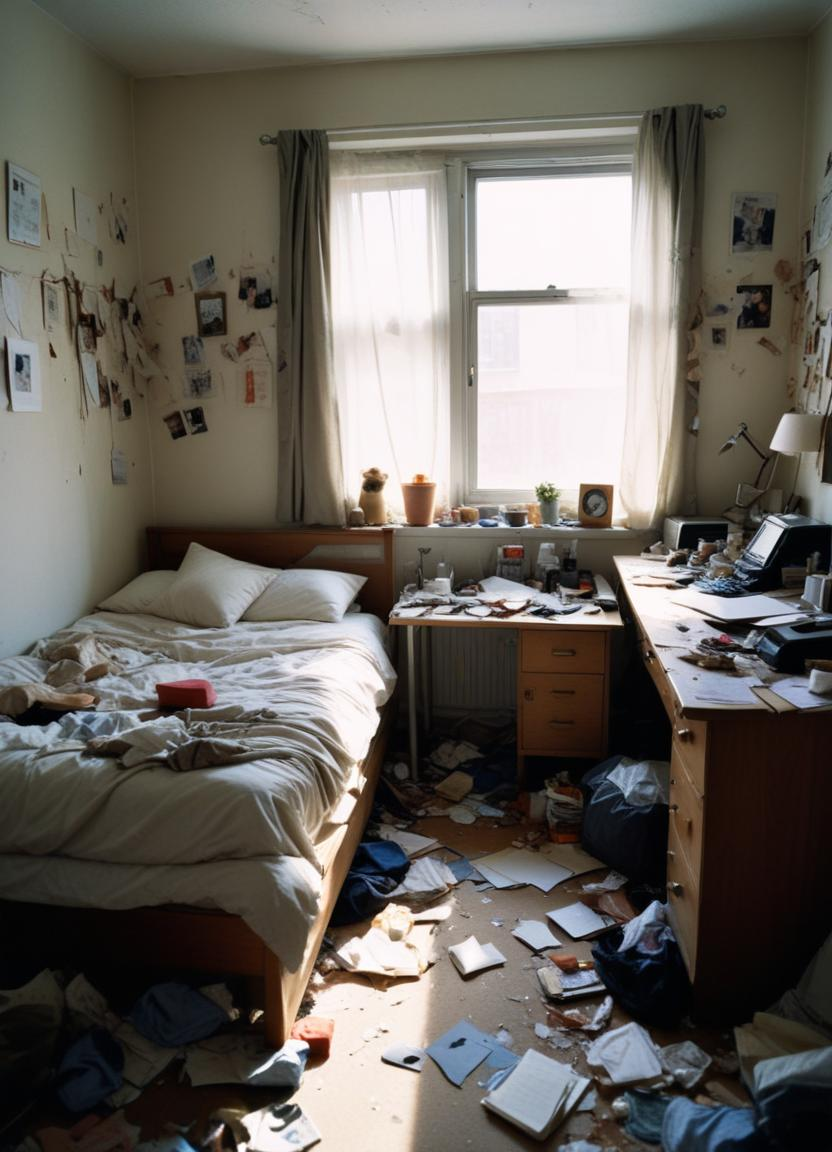
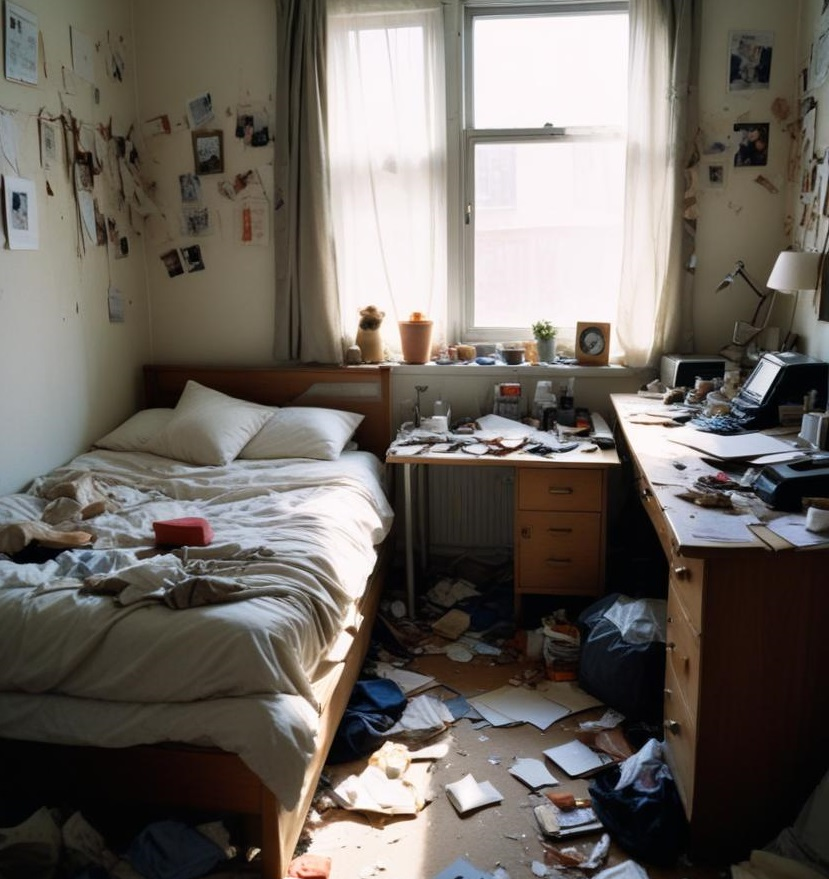
continuando a página organização

diff --git a/organizacao.html b/organizacao.html
@@ -45,6 +45,28 @@
         <section class="importancia">
             <h3>Quantas vezes você se sentiu estressado e cansado ao ver que sua casa está uma bagunça?</h3>
             <p class="paragrafo">A organização é um passo fundamental  na nossa rotina, sem ela não conseguiríamos colocar ordem em nossa vida e viveríamos em uma bagunça, tanto exterior como no nosso interior, pois a desordem de nossa casa e em tantos outros ambientes reflete no nosso bem estar. Portanto conseguimos observar que quando nossa casa está desorganizada parece que você se sente pesado e mais estressado, diferente de quando a casa está organizada. Por isso é essencial buscarmos a organização em casa e nos ambientes do trabalho e estudo.</p>
+            <div>
+                <p><img src="src/img.organizacao/pessoa estressada.png.jpg" width="700" alt=""></p>
+                <p><img src="src/img.organizacao/Quarto bagunçado.png.jpeg" width="700" alt=""></p>
+            </div>
+        </section>
+        <section class="modelo">
+            <div class="dividir">
+                <div class="text">
+                    <h4>A casa ideal</h4>
+                    <p>
+                        Muitas vezes nos deparamos com propagandas de casas belíssimas, que são tão perfeitas, aconchegantes e principalmente sem um traço sequer de bagunça que parece improvável conseguirmos chegar nesse nível em nossas casas. E a questão é que na verdade realmente é difícil termos uma casa idêntica à de uma capa de revista, até porque somos humanos e cada um tem uma vida diferente da outra, com afazeres, compromissos, responsabilidades, rotina e tempo livre diferente das outras.
+                    </p>
+                    <p>
+                        Por isso há um perigo muito grande na comparação de uma casa para outra, pois podemos nos frustrar. No entanto, isso não restringe você de ter um modelo para se inspirar, mas você precisa diferenciar o que é ideal do que é real.
+                    </p>
+                </div>
+                <div>
+                    <p>
+                        <img src="src/img.organizacao/modelo casa.png.jpeg" alt="">
+                    </p>
+                </div>
+            </div>
         </section>
 
         <section class="referencias">
@@ -62,6 +84,9 @@
                 <ul>
                     <li>
                         FREEPIK. Disponível em: <a href="https://br.freepik.com/">https://br.freepik.com/</a>. Acesso em: 28 set. 2024
+                    </li>
+                    <li>
+                        PEXELS, Ron Lach. Disponível em: <a href="https://www.pexels.com/pt-br/foto/pessoa-maos-mulher-livros-8086359/">https://www.pexels.com/pt-br/foto/pessoa-maos-mulher-livros-8086359/</a>. Acesso em: 09 out. 2024
                     </li>
                 </ul>
             </nav>

diff --git a/CSS/style_organizacao.css b/CSS/style_organizacao.css
@@ -111,12 +111,12 @@ main section.banner p.imagem img{
 	width: 100%;
 }
 
-/*==========================================
+/*============================================
            		 SECTION.IMPORTANCIA
-============================================*/
+==============================================*/
 main section.importancia {
 	background-color: #e4ddd6;
-	padding: 2vw 0 2vw 0;
+	padding: 3vw 0 3vw 0;
 }
 main section.importancia h3 {
 	margin: 4vw 10vw 2vw 10vw;
@@ -127,6 +127,46 @@ main section.importancia h3 {
 main section.importancia p.paragrafo {
 	margin: 2vw 9vw 2vw 9vw;
 	font-size: 0.9rem;
+}
+main section.importancia div {
+	display: flex;
+	justify-content: space-around;
+}
+main section.importancia div p {
+	width: 50%;
+	margin: 2vw 6vw 2vw 6vw;
+	text-align: center;
+}
+main section.importancia div div p img {
+	border: 5px solid #704a2f;
+}
+
+/*============================================
+           		 SECTION.MODELO
+==============================================*/
+main section.modelo {
+	background-color: #cdbca5;
+	padding: 2vw 0 2vw 0;
+}
+main section.modelo div.dividir {
+	display: flex;
+}
+main section.modelo div.dividir div {
+	width: 50%;
+}
+main section.modelo div.dividir div.text h4 {
+	margin: 4vw 10vw 2vw 10vw;
+	font-size: 1.3rem;
+	text-align: center;
+	font-weight: bold;
+}
+main section.modelo div.dividir div.text p {
+	margin: 2vw 5vw 2vw 5vw;
+	justify-content: left;
+}
+main section.modelo div.dividir div.text div p img {
+	border: 5px solid #704a2f;
+	margin: 2vw 5vw 2vw 5vw;
 }
 
 /*==========================================
